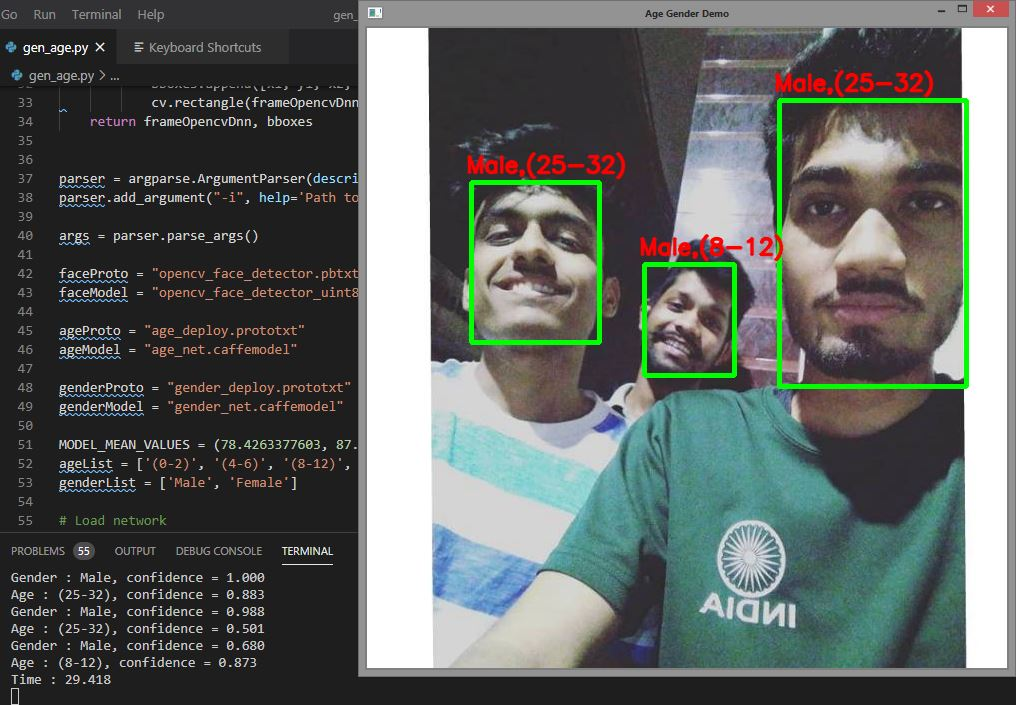
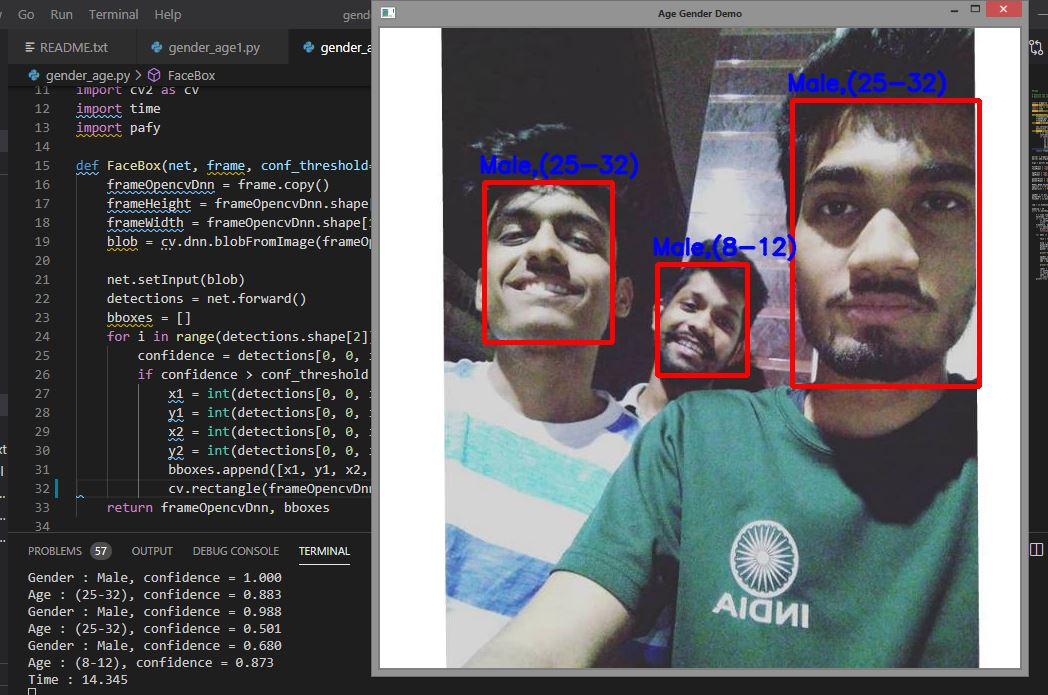
changes

diff --git a/gender_age.py b/gender_age.py
@@ -29,7 +29,7 @@ def FaceBox(net, frame, conf_threshold=0.7):
             x2 = int(detections[0, 0, i, 5] * frameWidth)
             y2 = int(detections[0, 0, i, 6] * frameHeight)
             bboxes.append([x1, y1, x2, y2])
-            cv.rectangle(frameOpencvDnn, (x1, y1), (x2, y2), (0, 255, 0), int(round(frameHeight/150)), 8)
+            cv.rectangle(frameOpencvDnn, (x1, y1), (x2, y2), (0, 0, 255), int(round(frameHeight/150)), 8)
     return frameOpencvDnn, bboxes
 
 
@@ -90,7 +90,7 @@ while cv.waitKey(1) < 0:
         print("Age : {}, confidence = {:.3f}".format(age, agePreds[0].max()))
 
         label = "{},{}".format(gender, age)
-        cv.putText(frameFace, label, (bbox[0]-5, bbox[1]-10), cv.FONT_HERSHEY_SIMPLEX, 0.75, (0, 0,255), 2, cv.LINE_AA)
+        cv.putText(frameFace, label, (bbox[0]-5, bbox[1]-10), cv.FONT_HERSHEY_SIMPLEX, 0.75, (255, 0,0), 2, cv.LINE_AA)
         cv.imshow("Age Gender Demo", frameFace)
         name = args.i
         cv.imwrite('./detected/'+name,frameFace)

diff --git a/README.md b/README.md
@@ -12,5 +12,3 @@
 # You need to download some libraries
 1. opencv (pip install opencv-python)
 2. argparse (pip install argparse)
- # Result 
-![Screenshot](result.jpg)
